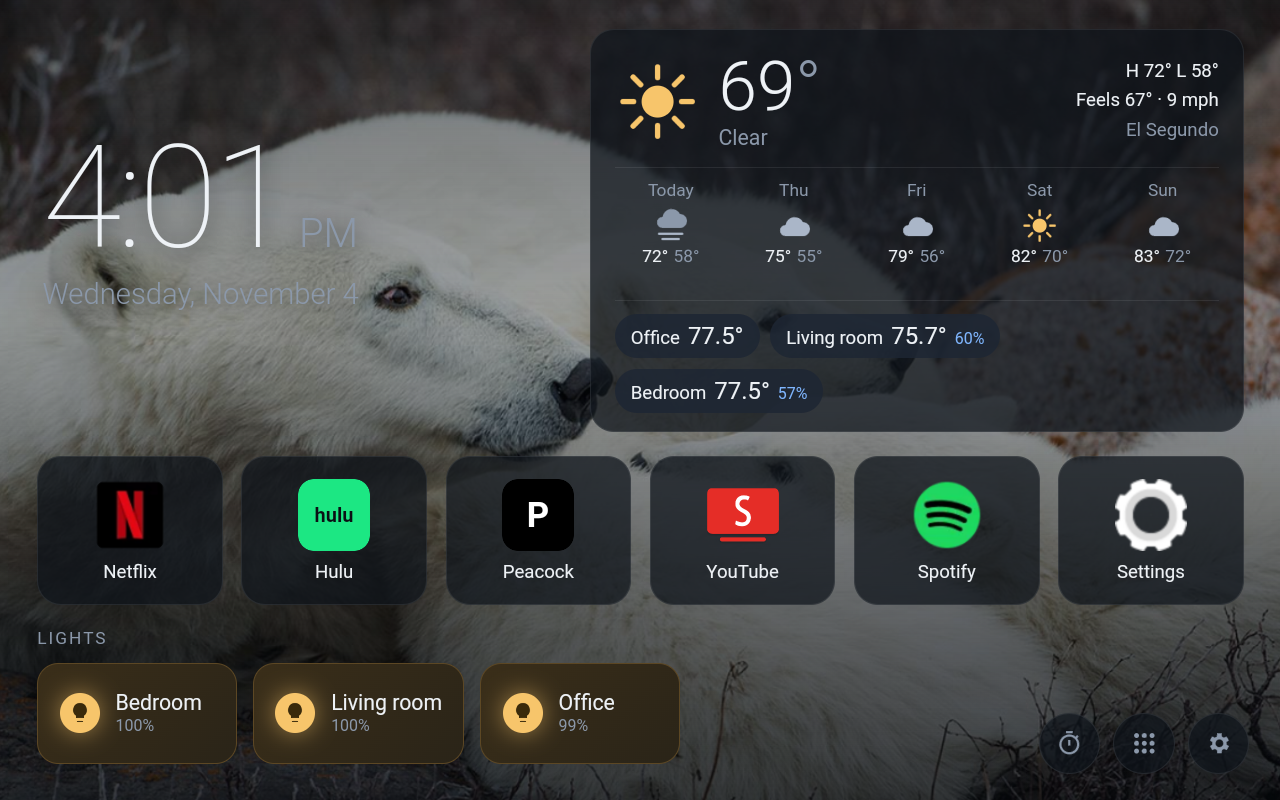
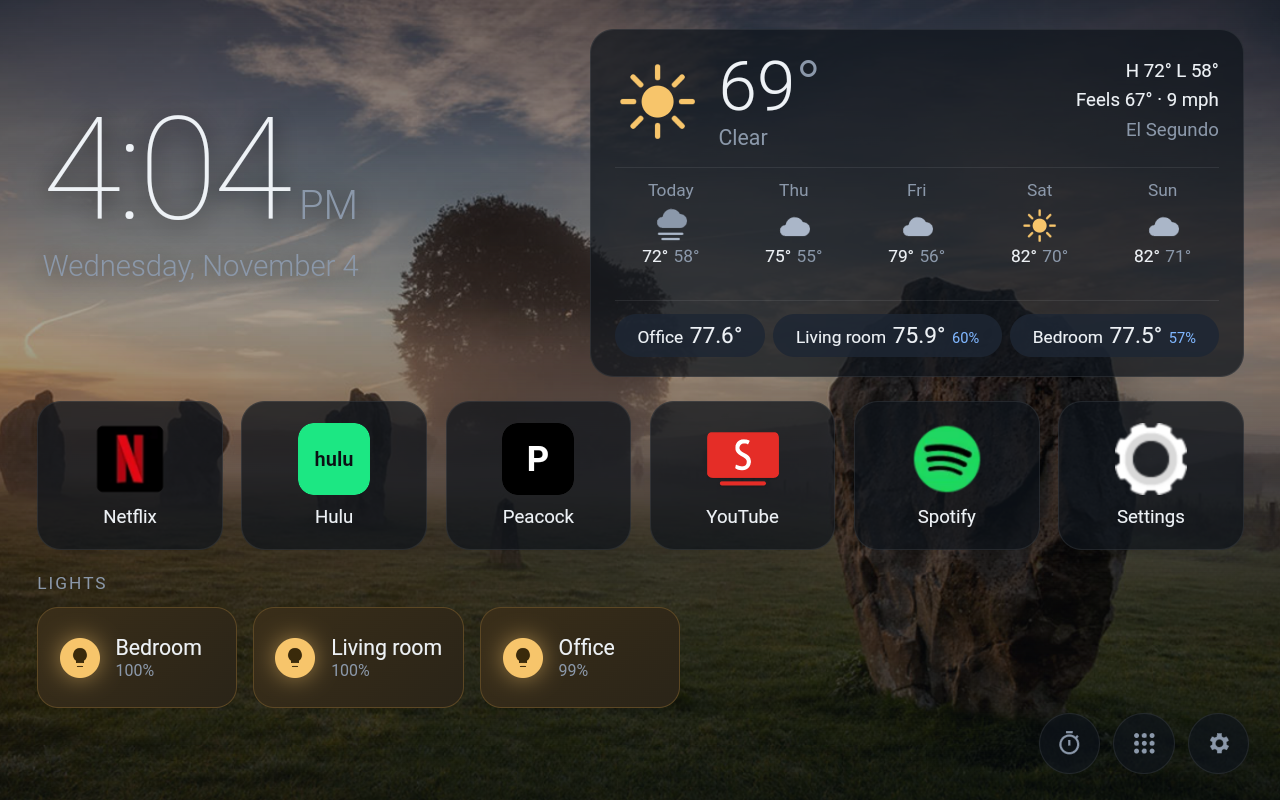
Kitchen Home: keep room temperature pills on one row

diff --git a/app/kitchen-home/assets/style.css b/app/kitchen-home/assets/style.css
@@ -50,10 +50,13 @@ button { font: inherit; color: inherit; border: 0; background: none; cursor: poi
 }
 
 /* ---- indoor room temperatures (inside the weather card) ---- */
-.indoor { display: flex; gap: 8px; flex-wrap: wrap; border-top: 1px solid var(--line); padding-top: 10px; }
-.it { display: flex; align-items: baseline; gap: 6px; padding: 6px 12px; border-radius: 999px; background: var(--card-2); font-size: 14px; }
-.it b { font-size: 18px; font-weight: 400; font-variant-numeric: tabular-nums; }
-.it .h { color: #7fb6ff; font-size: 12px; }
+/* One row, always: pills share the width and shrink (room names truncate) rather than wrap. */
+.indoor { display: flex; gap: 6px; flex-wrap: nowrap; border-top: 1px solid var(--line); padding-top: 10px; }
+.it { flex: 1 1 auto; min-width: 0; display: flex; align-items: baseline; justify-content: center; gap: 5px;
+      padding: 6px 8px; border-radius: 999px; background: var(--card-2); font-size: 13px; white-space: nowrap; }
+.it > span:first-child { overflow: hidden; text-overflow: ellipsis; min-width: 0; }
+.it b { font-size: 17px; font-weight: 400; font-variant-numeric: tabular-nums; flex: 0 0 auto; }
+.it .h { color: #7fb6ff; font-size: 11px; flex: 0 0 auto; }
 .it.stale { opacity: .45; }
 input.wide-input { background: var(--bg-2); color: var(--text); border: 1px solid var(--line); border-radius: 10px; padding: 8px 10px; font: inherit; flex: 1; min-width: 240px; }
 textarea#sensor-list { width: 100%; background: var(--bg-2); color: var(--text); border: 1px solid var(--line); border-radius: 10px; padding: 8px 10px; font: inherit; }
